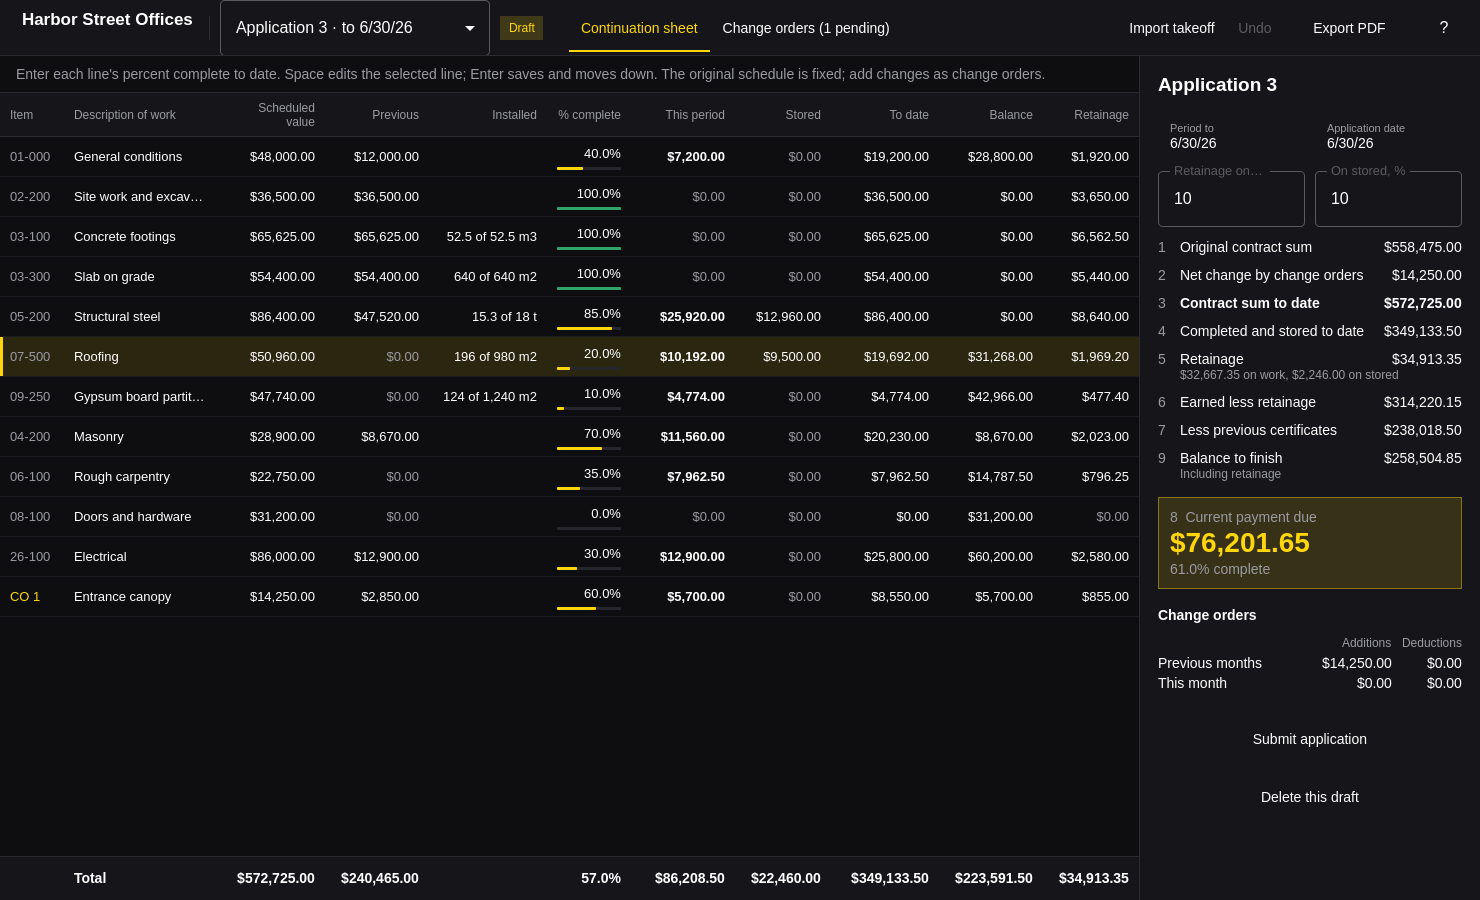
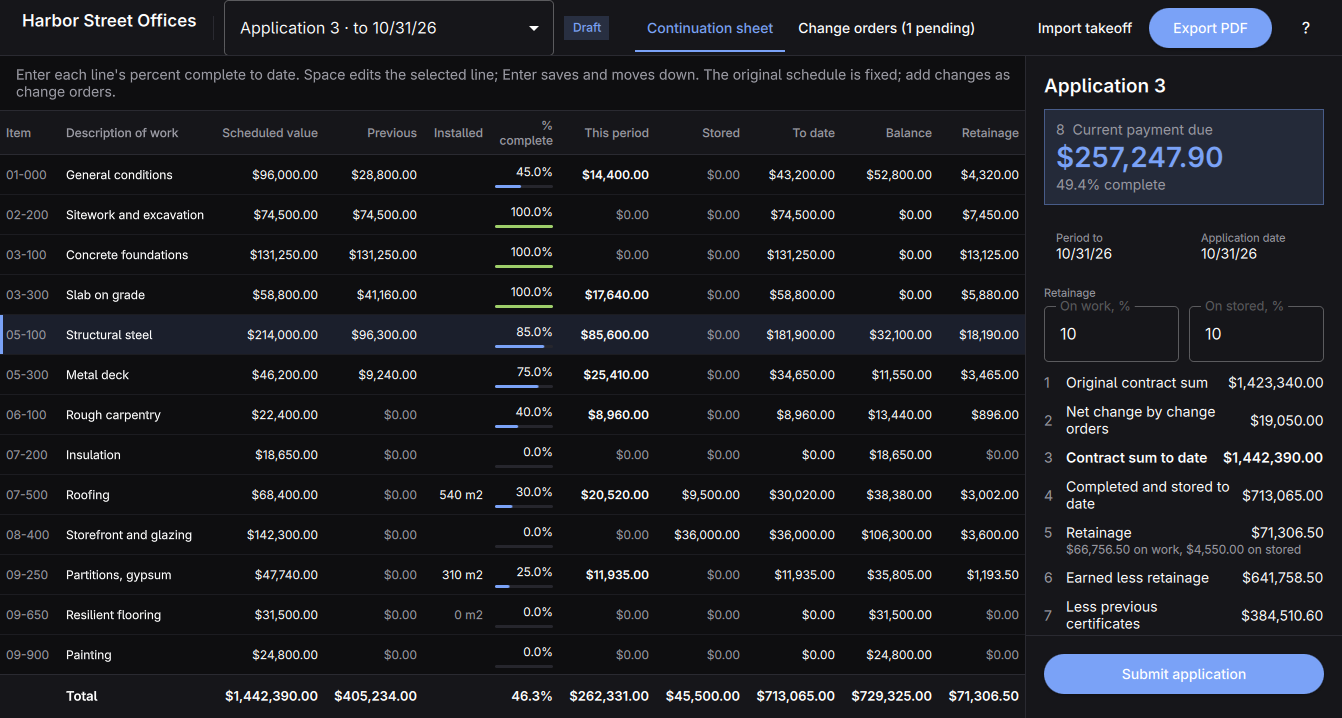
Spire 0.1.3: install from a release, try the demo project
The README shows the app on a laptop screen with the demo project, says
how to install the package from the latest release, and how to create
the demo. The description column keeps its heading's longest word whole.

diff --git a/src/SheetView.qml b/src/SheetView.qml
@@ -74,7 +74,10 @@ Item {
         return Math.ceil(Math.max(headingWidth(column), content) + 2 * padding + 4)
     }
     readonly property real fixedWidth: shown.reduce((sum, c) => sum + (c.width > 0 ? columnWidth(c) : 0), 0)
-    readonly property real tableWidth: Math.max(flick.width, fixedWidth + (win.compact ? 120 : 150))
+    // The description gets what is left, but never less than its heading's
+    // longest word (Leistungsbeschreibung) or a readable minimum.
+    readonly property real tableWidth: Math.max(flick.width, fixedWidth + Math.max(win.compact ? 120 : 150,
+        headingWidth(columns[1]) + 2 * padding + 4))
     readonly property real descriptionWidth: tableWidth - fixedWidth
     readonly property var billingKeys: ["installed", "percent", "thisPeriod", "stored"]
 

diff --git a/src/main.cpp b/src/main.cpp
@@ -27,7 +27,7 @@ int main(int argc, char *argv[]) {
     QGuiApplication app(argc, argv);
     app.setApplicationName("spire");
     app.setOrganizationName("spire");
-    app.setApplicationVersion("0.1.2");
+    app.setApplicationVersion("0.1.3");
 
     // Matches the window to spire.desktop, so the compositor (Wayland app_id)
     // and the launcher pick up the installed icon.

diff --git a/README.md b/README.md
@@ -5,7 +5,7 @@ the schedule of values, enter each line's percent complete every period, and
 export the pay application, the application and certificate for payment with
 its continuation sheet in the familiar G702/G703 format, as a PDF.
 
-![Spire with application 3 of an office building open](docs/screenshot.png)
+![Spire with the third pay application of an office building open](docs/screenshot.png)
 
 - **Schedule of values.** Type in the lines of work with their scheduled
   values, or import them from a Plumb takeoff, with quantities and unit prices.
@@ -109,6 +109,28 @@ spire open job.spire
 
 `spire help` lists every command. `spire skill install` installs a short
 skill so coding agents know how to use them.
+
+## Install
+
+On Omarchy (or any Arch Linux), install the package from the
+[latest release](https://github.com/yamz8/spire/releases/latest):
+
+```sh
+sudo pacman -U https://github.com/yamz8/spire/releases/latest/download/spire-x86_64.pkg.tar.zst
+```
+
+Or build it from source, below. Spire then shows up in the app launcher.
+
+## Try it
+
+`bin/demo` creates a project partway through construction: a three-story
+office building with sixteen lines, two submitted applications, a third in
+progress, and change orders approved, deducted, and pending.
+
+```sh
+bin/demo                    # ~/Documents/Harbor Street Offices.spire
+spire open ~/Documents/"Harbor Street Offices.spire"
+```
 
 ## Build
 
